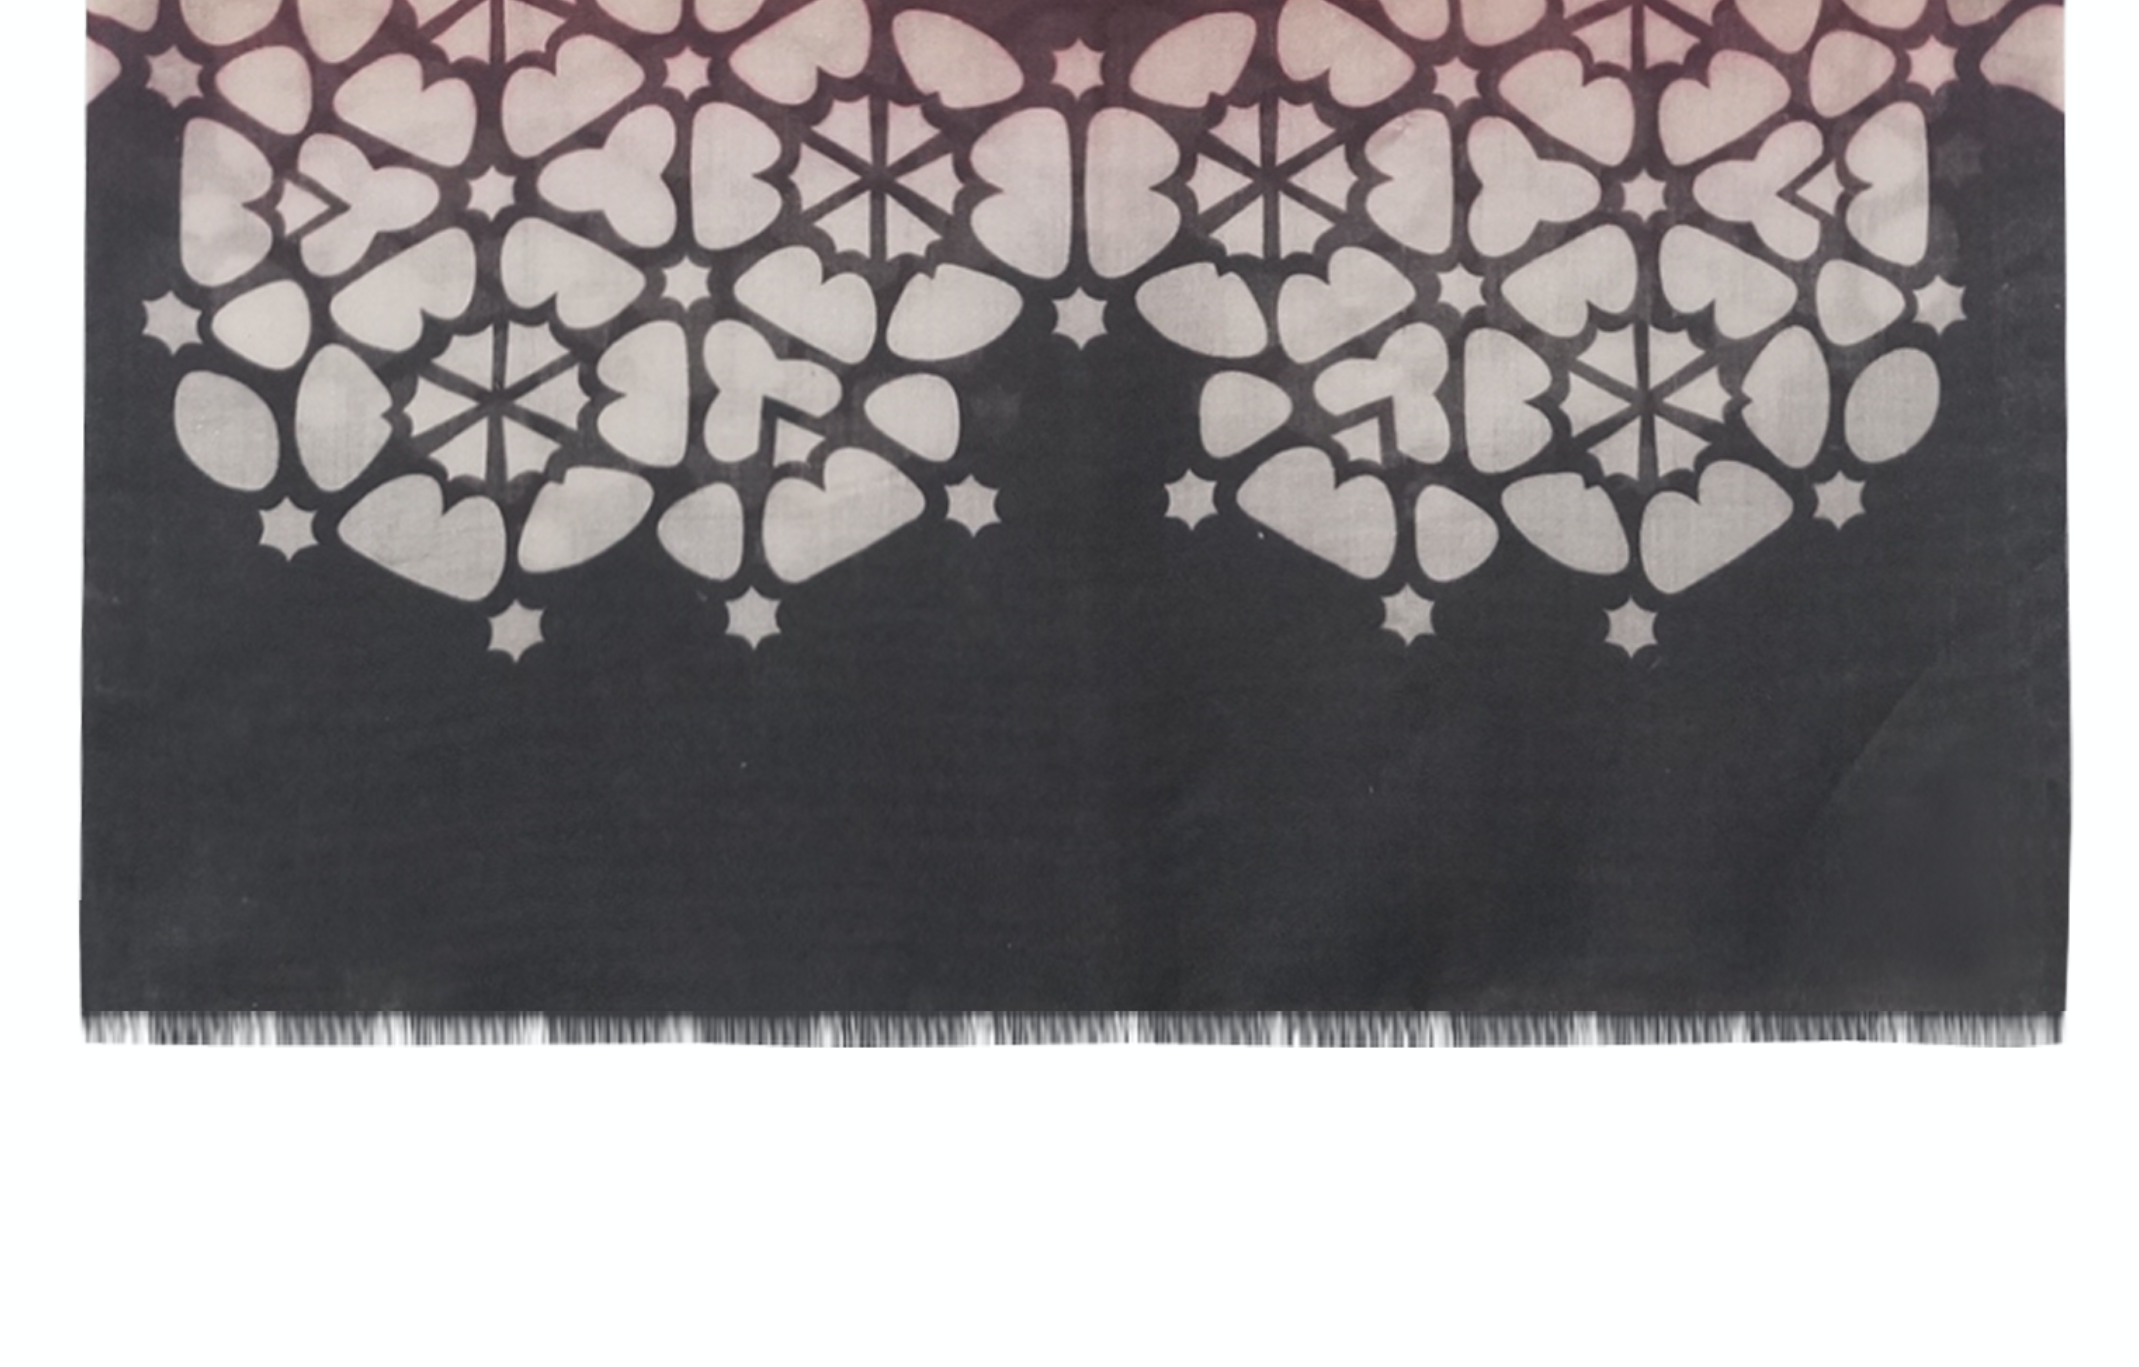
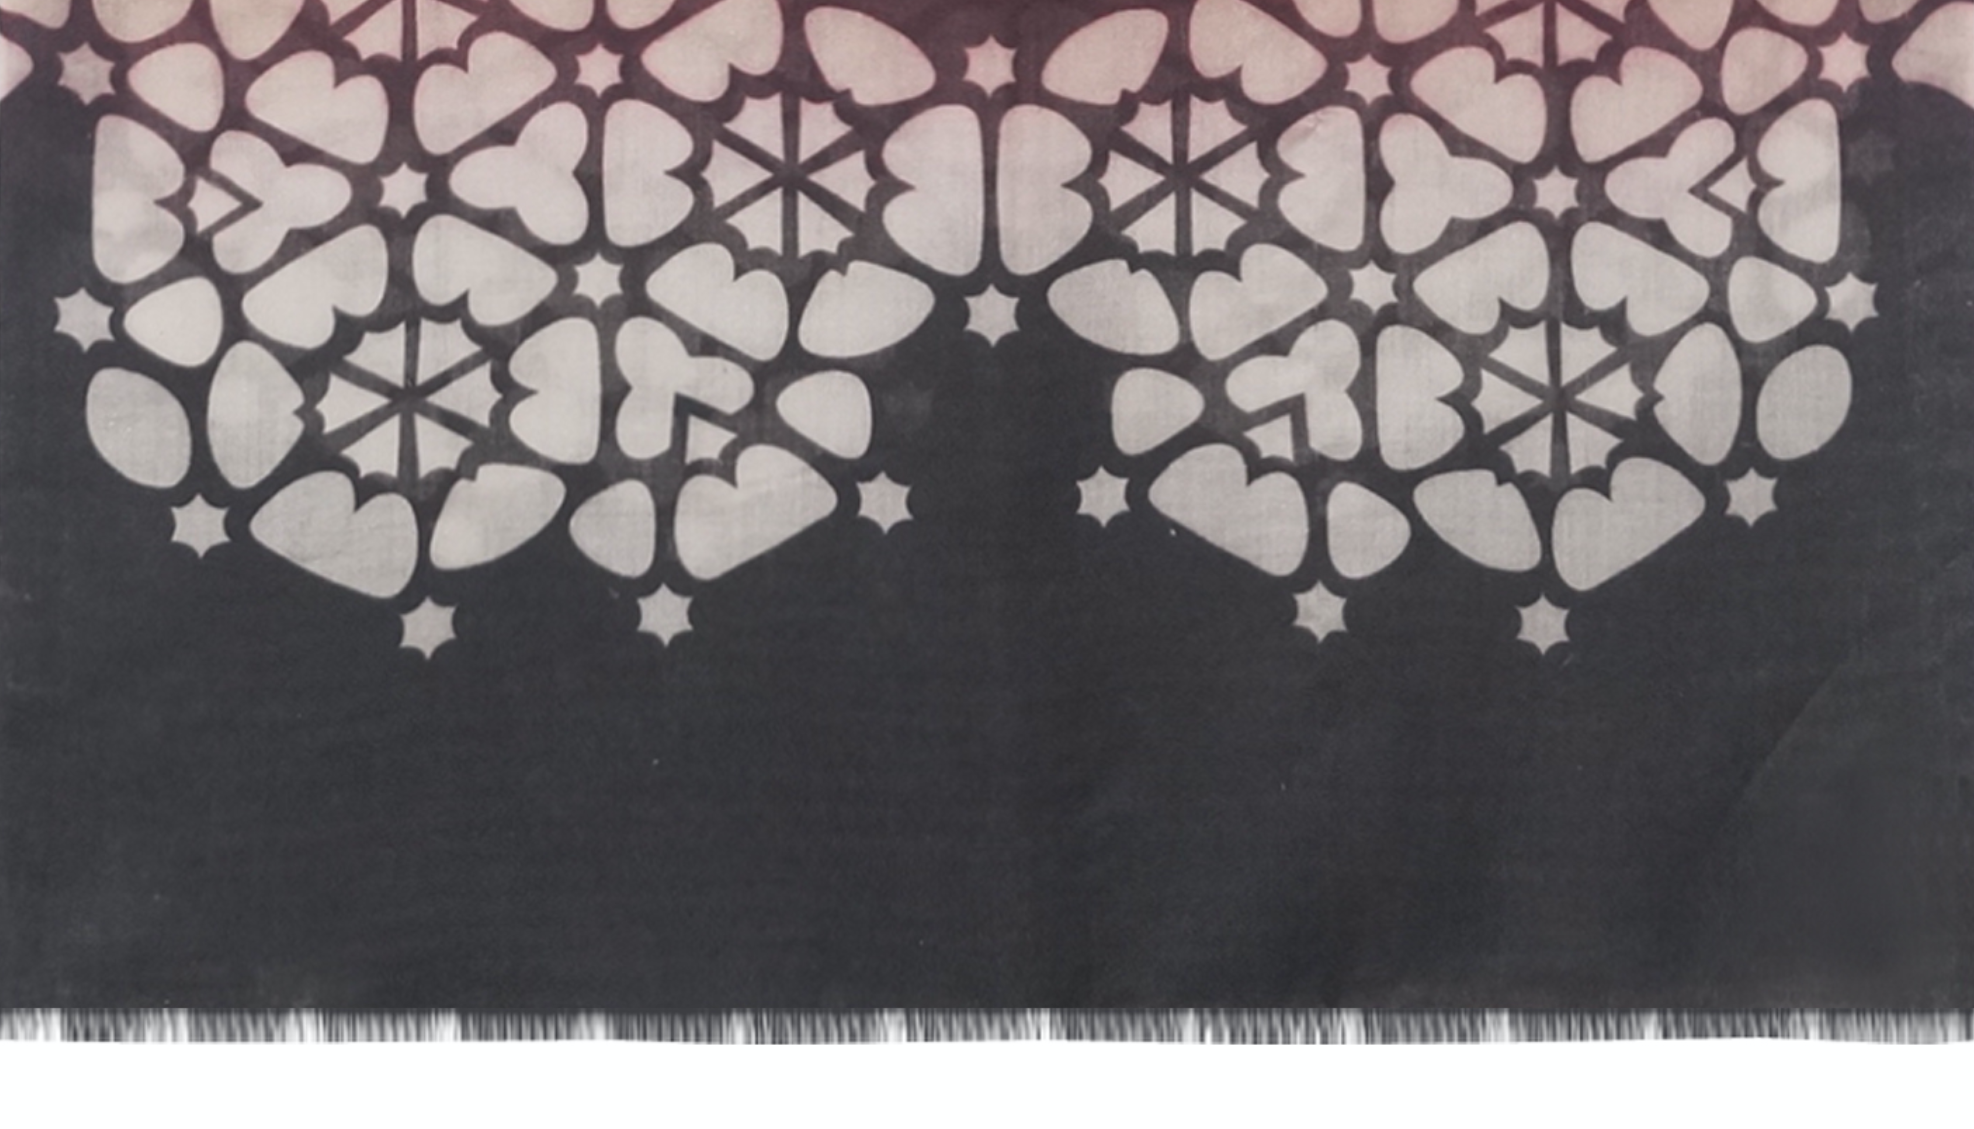
header image desktop done

diff --git a/pages/our-story.vue b/pages/our-story.vue
@@ -1,7 +1,12 @@
 <template>
-  <div class="page">
+  <div class="page -wh">
     <!-- header image with arrow in bottom-middle part -->
-    <div class="header-image"></div>
+    <div class="header-image flex center col" style="background-image: url('story-images/header-image.png')">
+        <h1> Our Story </h1>
+        <br>
+        <br>
+        <img src="/story-images/arrow-down.png" style="width:50px;"/>
+    </div>
     <!-- centralized text block -->
     <div class="c-text">
       <p></p>
@@ -41,7 +46,7 @@
       </div>
     </div>
     <!-- full width image -->
-    <div class="full-width"></div>ß
+    <div class="full-width"></div>
     <!-- centralized text block -->
     <div class="c-text">
       <p></p>
@@ -64,5 +69,16 @@ export default {
 </script>
 
 <style lang="scss" scoped>
-
+.cover {
+    background-size: cover;
+}
+.header-image {
+    height: 100vh;
+    width:100%;
+    background-position: bottom center;
+      background-attachment: fixed;
+    h1 {
+        color: white;
+    }
+}
 </style>

diff --git a/test2.vue b/test2.vue
@@ -1,7 +1,7 @@
 <template>
   <div class="page">
     <!-- header image with arrow in bottom-middle part -->
-    <div class="header-image"></div>
+    <div class="header-image" style="background-image: url('/story-images/header-image.jpg')"></div>
     <!-- centralized text block -->
     <div class="c-text">
       <p></p>
@@ -41,7 +41,7 @@
       </div>
     </div>
     <!-- full width image -->
-    <div class="full-width"></div>ß
+    <div class="full-width"></div>
     <!-- centralized text block -->
     <div class="c-text">
       <p></p>
@@ -64,5 +64,9 @@ export default {
 </script>
 
 <style lang="scss" scoped>
-
+/* header image */
+.header-image {
+    height:70vh;
+    width:100%;
+}
 </style>
